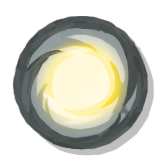
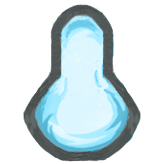
Added new finalized card orb art, added strings and temp art for Ignis, changed character select sound effect to POTION_1

diff --git a/src/main/java/theAlchemist/characters/TheAlchemist.java b/src/main/java/theAlchemist/characters/TheAlchemist.java
@@ -192,8 +192,8 @@ public class TheAlchemist extends CustomPlayer
 	
 	@Override
 	public void doCharSelectScreenSelectEffect() // DONE
-	{// Until we get a better sound effect, we've got the magic beam -Jolkert 2020-01-30
-		CardCrawlGame.sound.playA("ATTACK_MAGIC_BEAM_SHORT", 1.25f);
+	{// I've changed this to the potion sound effect for now -Jolkert 2020-01-30
+		CardCrawlGame.sound.playA("POTION_1", 1.0f);
 		CardCrawlGame.screenShake.shake(ScreenShake.ShakeIntensity.LOW, ScreenShake.ShakeDur.SHORT, false);
 	}
 	

diff --git a/src/main/java/theAlchemist/cards/Ignis.java b/src/main/java/theAlchemist/cards/Ignis.java
@@ -16,7 +16,7 @@ import theAlchemist.characters.TheAlchemist;
 import static theAlchemist.AlchemistMod.makeCardPath;
 
 public class Ignis extends CustomCard
-{// Template for a basic strike card
+{// TODO: Add full description to this card
 	public static final String ID = AlchemistMod.makeID(Ignis.class.getSimpleName());
 	public static final CardStrings cardStrings = CardCrawlGame.languagePack.getCardStrings(ID);
 
